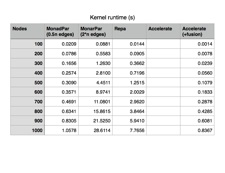
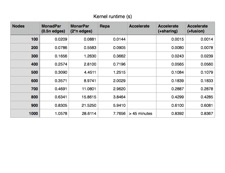
Add more benchmarks for Floyd-Warshall
Separate out the contributions of sharing and fusion. We can't run the program without sharing, as this results in an exponential blowup in the number of terms. A test ran for over 45 minutes before I killed it.

Changed region(s): [[0.0311, 0.0867, 0.9644, 0.7803], [0.6844, 0.6069, 0.7156, 0.6358]]

diff --git a/sections/06-results.tex b/sections/06-results.tex
@@ -118,7 +118,7 @@ Radix sort      & 2M
 Floyd-Warshall  & 1k
                 & 7766 & (Repa)
                 & 836  & (10.8\%)
-                & tk   & (tk\%)
+                & \multicolumn{2}{c}{\emph{(timeout)}}
                 \\
 
 MD5             & 1M
@@ -2029,8 +2029,8 @@ Accelerate to several parallel CPU implementations.
     implementations. The test data is randomly generated graph of $n$ nodes and
     (up to) $2n$ edges. The Monad-Par program uses a sparse representation which
     is sensitive to the total number of edges, whereas the Accelerate and Repa
-    versions use a dense adjacency matrix representation which is not. Note the
-    log-log scale.}
+    versions use a dense adjacency matrix representation which is not. Note
+    the log-log scale.}
     \label{fig:floyd_warshall}
 \end{figure}
 
